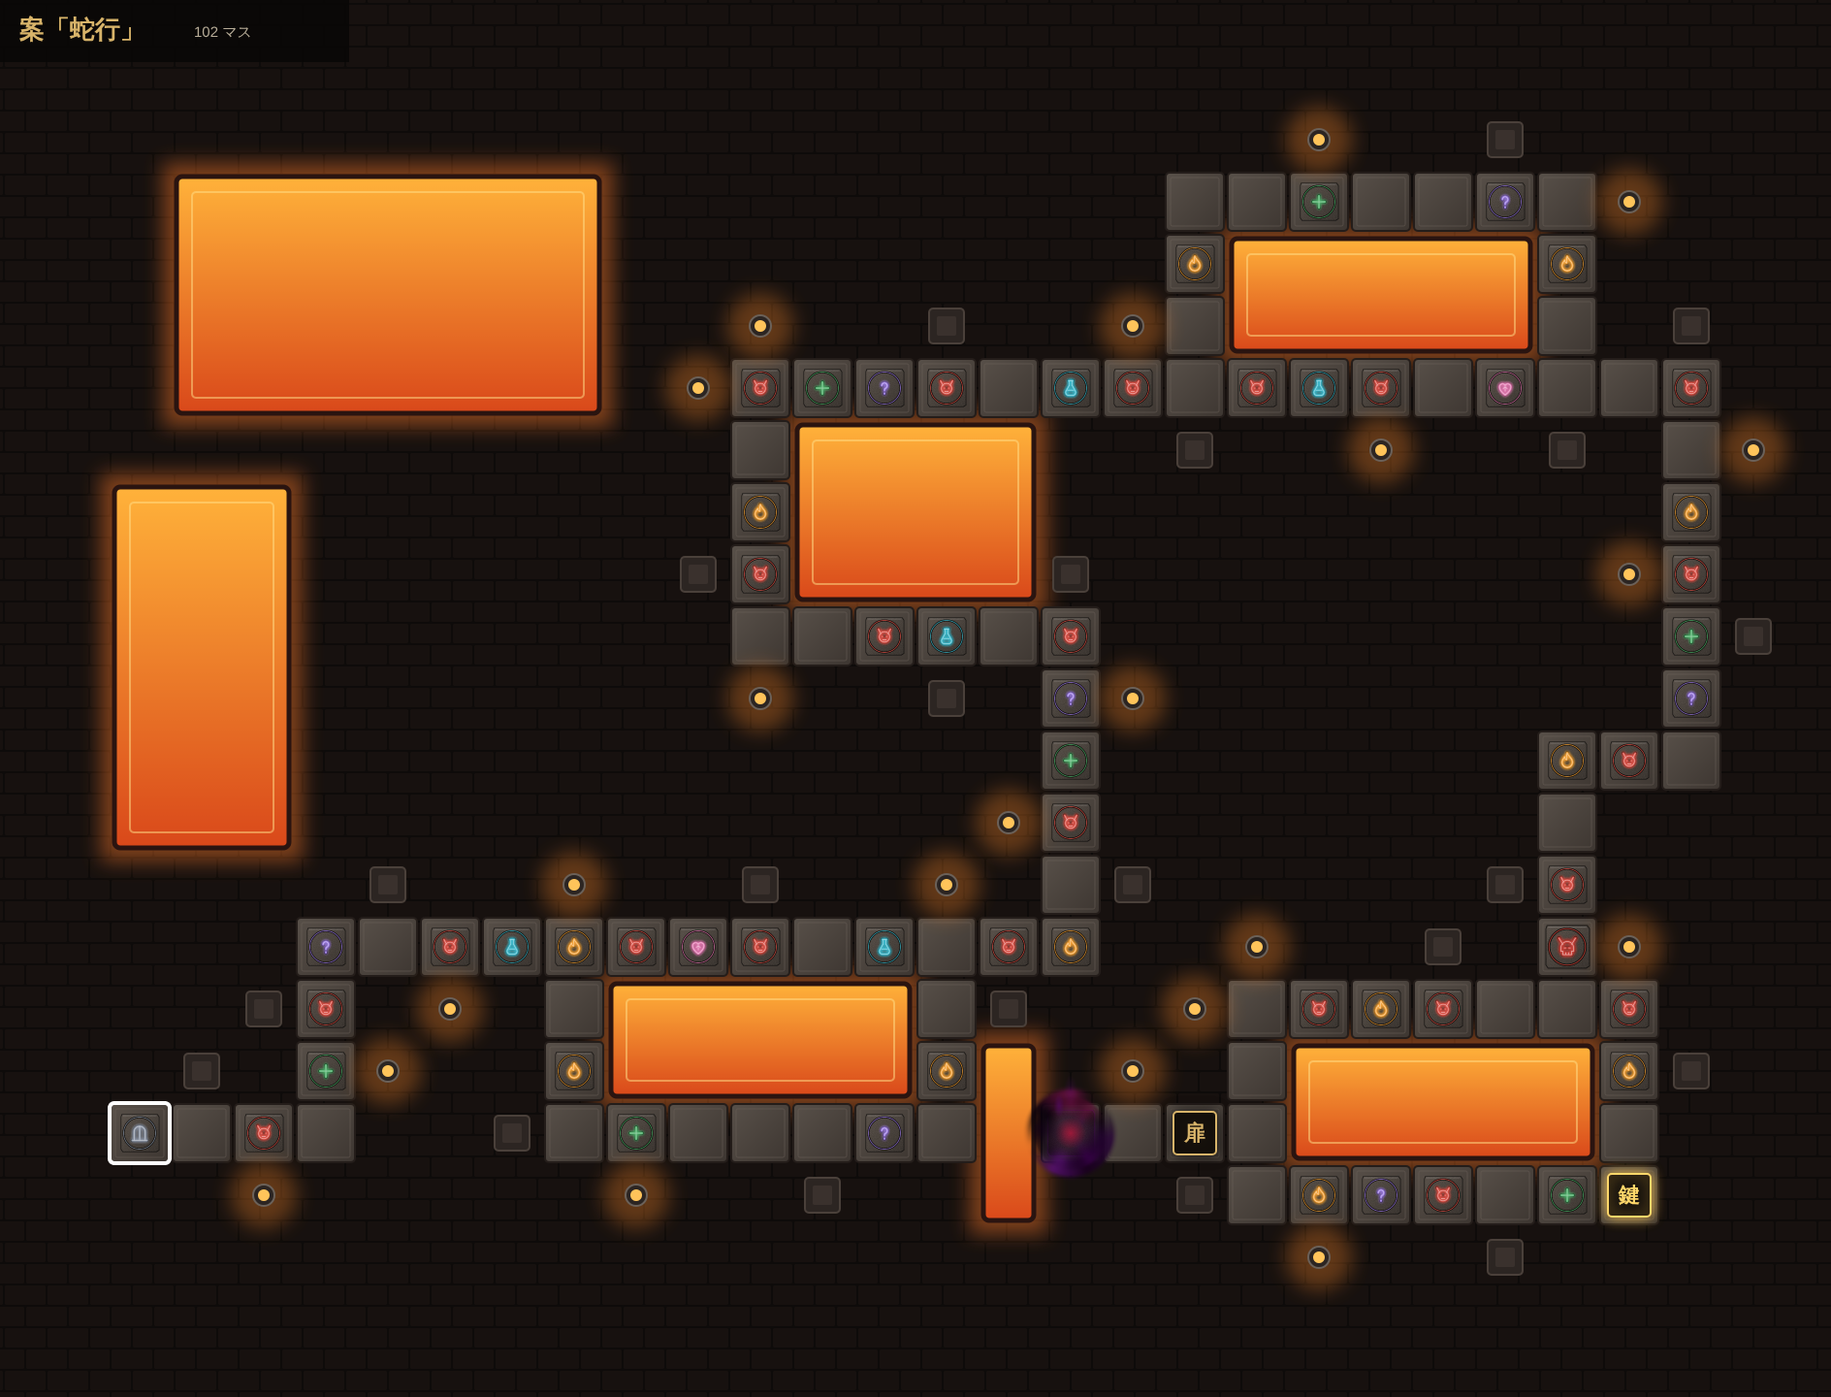
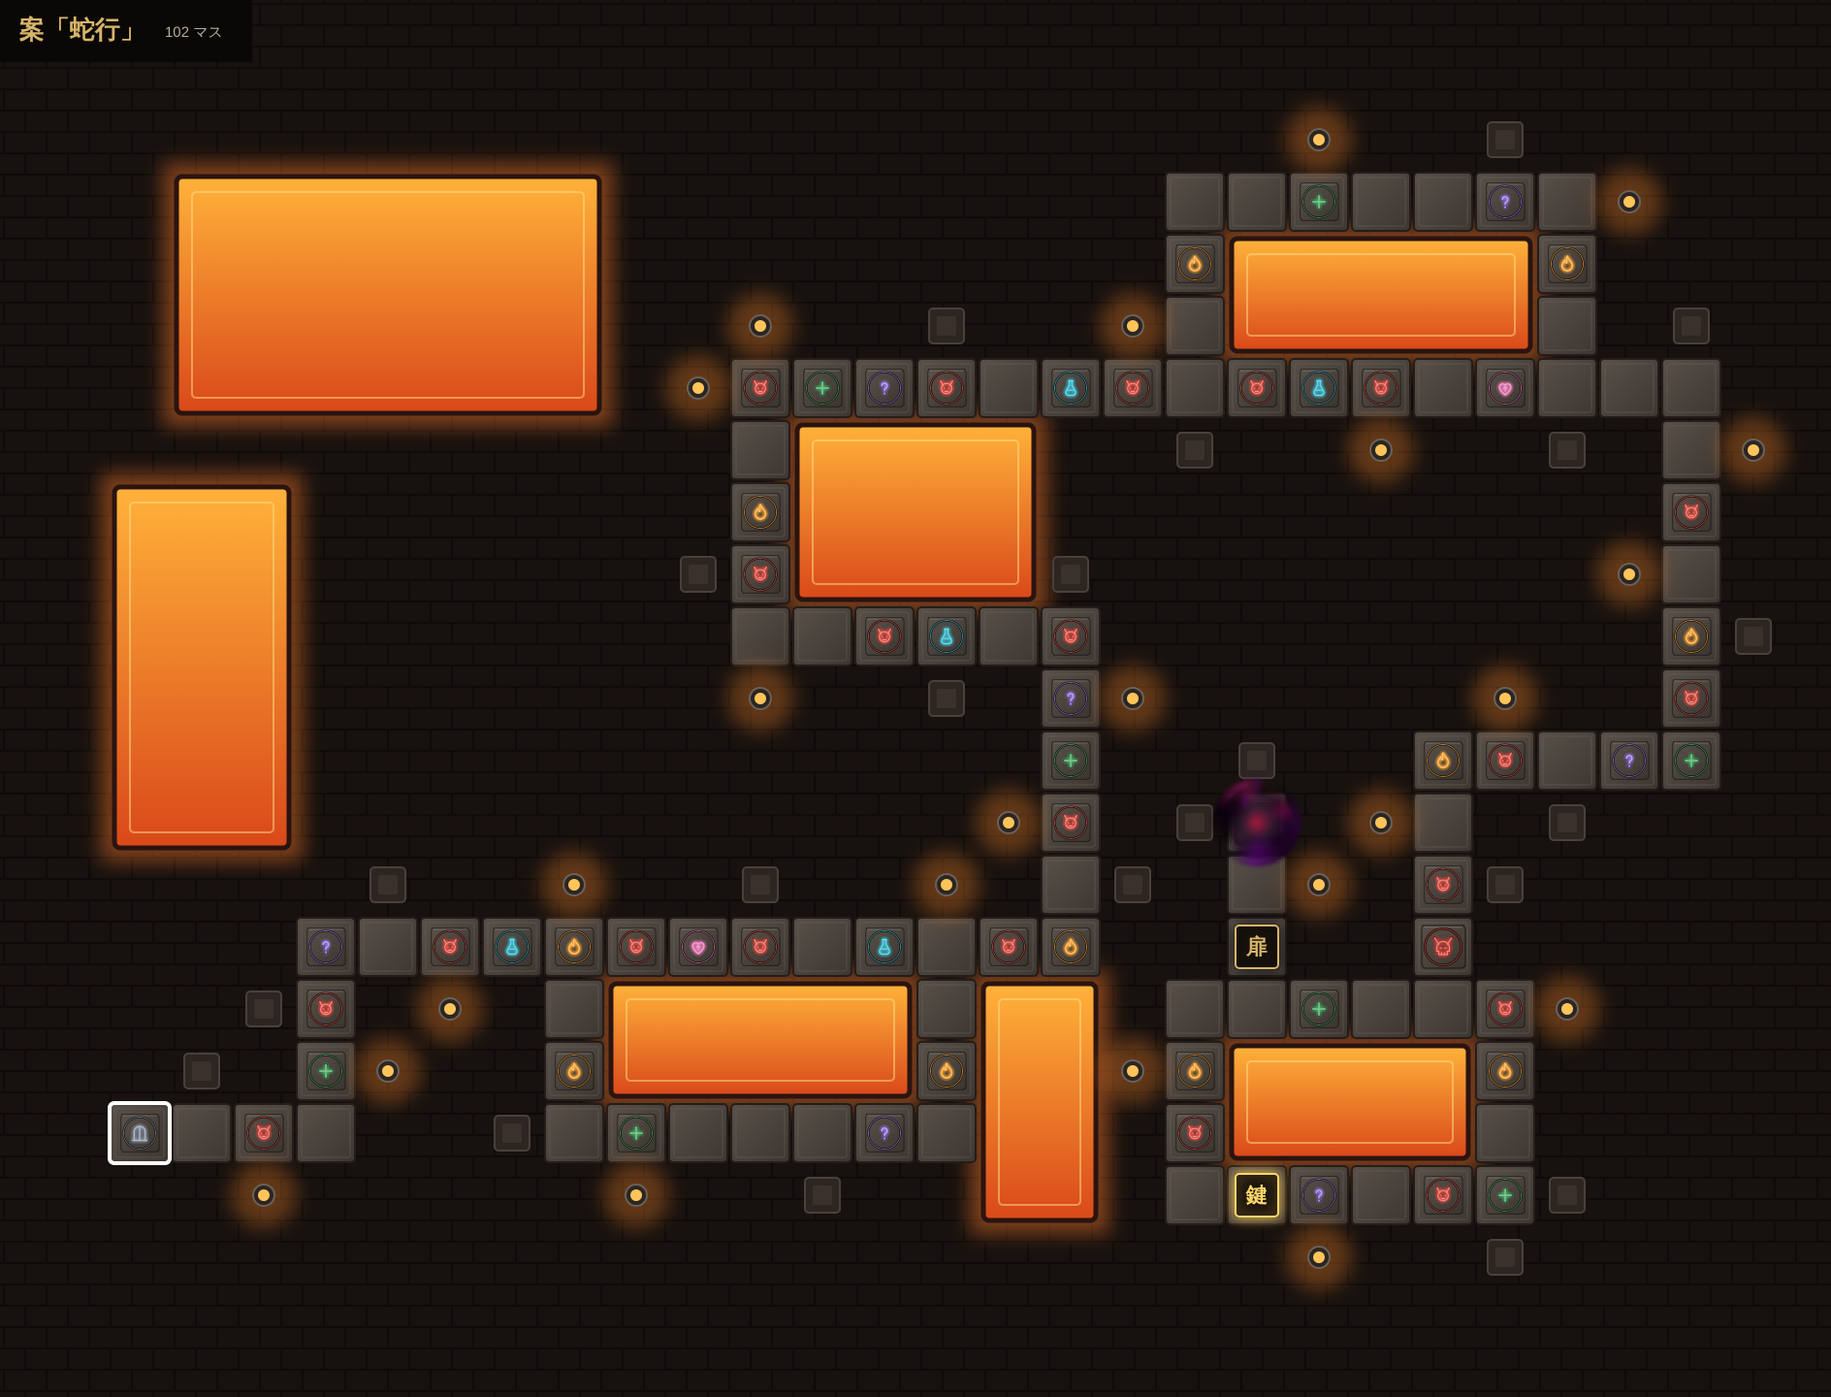
炎の神殿の輪を手直しする: 16マス、入口で左右を選ぶ（輪の中は向きを保つ）、鍵は入口から8マス、扉は上辺、回復を1つ足す
Claude-Session: https://claude.ai/code/session_012hkhuRjXJoxGWxPSr8xzWQ

diff --git a/src/game/dungeon.test.ts b/src/game/dungeon.test.ts
@@ -22,27 +22,31 @@ describe('盤面', () => {
     expect(board[0].kind).toBe('start');
     const r = run(); r.state.key = true;
     for (const pick of [0, 1]) {
-      let i = 0, n = 0;
+      let i = 0, p = -1, n = 0;
       // 輪の分かれ目では扉の側へ
-      while (r.exits(i).length && n++ < 200) { const o = r.exits(i), d = o.find(x => board[x].kind === 'door'); i = d ?? o[Math.min(pick, o.length - 1)]; }
+      while (r.exitsFrom(i, p).length && n++ < 200) { const o = r.exitsFrom(i, p), d = o.find(x => board[x].kind === 'door'); p = i; i = d ?? o[Math.min(pick, o.length - 1)]; }
       expect(i).toBe(r.bossIndex);
     }
   });
   it('中ボスの先に輪があり、鍵は輪の中に1本、扉は輪の出口に1つ', () => {
     const r = run(), key = board.filter(s => s.kind === 'key'), door = board.filter(s => s.kind === 'door');
     expect(key.length).toBe(1); expect(door.length).toBe(1);
-    // 扉の手前のマスから、扉を通らずに一周して戻れる
-    const junction = board.findIndex(s => s.next.includes(r.doorIndex));
-    let i = r.exits(junction)[0], n = 1;
-    const ring = [junction];
-    while (i !== junction && n < 100) { ring.push(i); i = r.exits(i)[0]; n++; }
-    expect(i).toBe(junction);
-    expect(ring.length).toBe(18);
-    expect(ring).toContain(key[0].id);
+    // 輪は16マス。入口（中ボスの次）から右回りに一周して戻れる。鍵は入口から左右どちら回りでも 8マス
+    const entry = r.midIndex + 1;
+    expect(r.exitsFrom(entry, r.midIndex).length).toBe(2);      // 入口で左右を選ぶ
+    let p = r.midIndex, i = entry, n = 0;
+    const ring: number[] = [];
+    do { ring.push(i); const o = r.exitsFrom(i, p).filter(x => board[x].kind !== 'door'); const nx = o.length > 1 ? Math.min(...o) : o[0]; p = i; i = nx; n++; } while (i !== entry && n < 100);
+    expect(ring.length).toBe(16);
+    expect(ring.indexOf(key[0].id)).toBe(8);
     expect(ring.every(x => x > r.midIndex)).toBe(true);
+    // 扉の前のマスは輪の上辺。入口との間は2マス（左回りで3マス目）
+    const junction = board.findIndex(s => s.next.includes(r.doorIndex));
+    expect(16 - ring.indexOf(junction)).toBe(3);
+    expect(board[r.doorIndex].y).toBeLessThan(board[junction].y);
   });
-  it('分かれ道が3つ、中ボスとボスが1つずつある', () => {
-    expect(board.filter(s => s.next.length > 1).length).toBe(3);
+  it('輪の外の分かれ道が2つ、中ボスとボスが1つずつある', () => {
+    expect(board.filter(s => s.next.length > 1 && !s.seg.startsWith('r')).length).toBe(2);
     expect(board.filter(s => s.kind === 'mid').length).toBe(1);
     expect(board.filter(s => s.kind === 'boss').length).toBe(1);
   });
@@ -142,20 +146,39 @@ describe('マスの効果', () => {
 describe('最深部の鍵と扉', () => {
   const junctionOf = (r: DungeonRun) => r.board.findIndex(s => s.next.includes(r.doorIndex));
   const keyIndex = (r: DungeonRun) => r.board.findIndex(s => s.kind === 'key');
+  /** マス pos に、prev から来た状態で置く（輪の中では、来た向きで進む向きが決まる） */
+  const place = (r: DungeonRun, pos: number, prev: number) => { r.state.pos = pos; r.state.prev = prev; };
+  it('輪の入口で左右を選べる。1周して入口に戻っても、向きは選び直せない', () => {
+    const r = run(); r.state.midDone = true;
+    const entry = r.midIndex + 1;
+    place(r, r.midIndex, -1); r.state.steps = 2;
+    expect(r.step()).toBe('moved');
+    expect(r.state.pos).toBe(entry);
+    expect(r.step()).toBe('choose');
+    expect(r.options().length).toBe(2);
+    place(r, entry + 15, entry + 14); r.state.steps = 2;       // 右回りで入口の手前まで来た
+    expect(r.step()).toBe('moved'); expect(r.state.pos).toBe(entry);
+    expect(r.options()).toEqual([entry + 1]);                  // そのまま右回り
+    place(r, entry + 1, entry + 2); r.state.steps = 2;         // 左回りで入口の手前まで来た
+    walk(r, 2);
+    expect(r.state.pos).toBe(entry + 15);                      // そのまま左回り
+  });
   it('鍵がないと、輪の分かれ目で扉へは進めず、輪をもう一周する（選ぶ画面も出ない）', () => {
     const r = run(); r.state.midDone = true;
     const j = junctionOf(r);
-    r.state.pos = j; r.state.steps = 3;
-    expect(r.options().length).toBe(1);
-    expect(r.step()).toBe('moved');
-    expect(r.board[r.state.pos].kind).not.toBe('door');
+    for (const from of [j - 1, j + 1]) {                      // どちら回りでも
+      place(r, j, from); r.state.steps = 3;
+      expect(r.options().length).toBe(1);
+      expect(r.step()).toBe('moved');
+      expect(r.board[r.state.pos].kind).not.toBe('door');
+    }
   });
   it('鍵は止まったときだけ手に入る。通り過ぎるだけでは得られない', () => {
     const r = run(); r.state.midDone = true;
-    r.state.pos = keyIndex(r) - 1; walk(r, 2);
+    place(r, keyIndex(r) - 1, keyIndex(r) - 2); walk(r, 2);
     expect(r.land()).toMatchObject({ kind: expect.not.stringMatching('key') });
     expect(r.state.key).toBeFalsy();
-    r.state.pos = keyIndex(r) - 1; walk(r, 1);
+    place(r, keyIndex(r) - 1, keyIndex(r) - 2); walk(r, 1);
     expect(r.land()).toEqual({ kind: 'key' });
     expect(r.state.key).toBe(true);
     expect(r.land()).toEqual({ kind: 'none' });      // 1本だけ。持っている間はもう出ない
@@ -163,7 +186,7 @@ describe('最深部の鍵と扉', () => {
   it('鍵を持っていれば、分かれ目で扉か輪かを選べる。扉では止まり、開けると開いたまま', () => {
     const r = run(); r.state.midDone = true; r.state.key = true;
     const j = junctionOf(r);
-    r.state.pos = j; r.state.steps = 4;
+    place(r, j, j - 1); r.state.steps = 4;
     expect(r.step()).toBe('choose');
     expect(r.options()).toContain(r.doorIndex);
     expect(r.step(r.doorIndex)).toBe('landed');       // 歩数が残っていても止まる

diff --git a/src/game/dungeon.ts b/src/game/dungeon.ts
@@ -12,7 +12,8 @@ export interface DungeonDef {
   reward: { accessory: string; gold: number };
   cell: number; size: [number, number];
   lava: [number, number, number, number][];                 // 溶岩の池 [x, y, w, h]（マス単位）
-  segments: { id: string; next: string[]; cells: [number, number, string][] }[];
+  // both: 両向きに進める道（輪）。中では向きを変えられない（来たマスには戻らない）
+  segments: { id: string; next: string[]; both?: boolean; cells: [number, number, string][] }[];
 }
 export interface Square { id: number; x: number; y: number; kind: SquareKind; next: number[]; seg: string }
 
@@ -28,6 +29,11 @@ export function buildBoard(def: DungeonDef): Square[] {
     });
   }
   for (const seg of def.segments) for (const n of seg.next) out[last[seg.id]].next.push(first[n]);
+  // 両向きの道: 逆向きのつながりも足す（道の中と、両向きの道どうしのつなぎ目）
+  for (const seg of def.segments) if (seg.both) {
+    for (let id = first[seg.id] + 1; id <= last[seg.id]; id++) out[id].next.push(id - 1);
+    for (const o of def.segments) if (o.both && o.next.includes(seg.id)) out[first[seg.id]].next.push(last[o.id]);
+  }
   return out;
 }
 
@@ -54,6 +60,7 @@ export interface RunState {
   cleared: boolean;
   key?: boolean;           // 最深部の鍵を持っている（負けると失い、鍵はもとのマスに戻る）
   doorOpen?: boolean;      // 最深部の扉を開けた（開いたまま。負けたらここからやり直す）
+  prev?: number | null;    // 直前にいたマス（輪の中で引き返さないため）
 }
 
 export class DungeonRun {
@@ -75,9 +82,11 @@ export class DungeonRun {
   /** 止まらずには通れないマス（中ボス、まだ開けていない扉、ボス） */
   isGate(i: number) { const k = this.board[i].kind, s = this.state; return k === 'boss' || (k === 'mid' && !s.midDone) || (k === 'door' && !s.doorOpen); }
   /** マス i から進めるマス。扉は鍵を持っているか、開いているときだけ */
-  exits(i: number): number[] {
+  exits(i: number): number[] { return this.exitsFrom(i, i === this.state.pos ? this.state.prev ?? -1 : -1); }
+  /** prev から来て、マス i にいるときに進めるマス（来たマスには戻らない） */
+  exitsFrom(i: number, prev: number): number[] {
     const s = this.state;
-    return this.board[i].next.filter(n => this.board[n].kind !== 'door' || s.key || s.doorOpen);
+    return this.board[i].next.filter(n => n !== prev && (this.board[n].kind !== 'door' || s.key || s.doorOpen));
   }
   /** 次の関所までに数えるマスの種類（輪の中で鍵がないときは、鍵のマスまで） */
   private goal(i: number) {
@@ -90,13 +99,15 @@ export class DungeonRun {
   get goalName() { const s = this.state; return !s.midDone ? '中ボス' : this.doorIndex >= 0 && !s.doorOpen ? (s.key ? '扉' : '鍵') : 'ボス'; }
   /** 次の目標（中ボス → 鍵 → 扉 → ボス）までの最短のマス数 */
   distanceToGate(): number {
-    const seen = new Map<number, number>([[this.state.pos, 0]]), q = [this.state.pos];
+    // 輪の中では向きで行き先が変わるので、（いるマス, 来たマス）の組で数える
+    const seen = new Set<string>(), q: [number, number, number][] = [[this.state.pos, this.state.prev ?? -1, 0]];
     while (q.length) {
-      const i = q.shift()!, d = seen.get(i)!;
-      for (const n of this.exits(i)) {
-        if (seen.has(n)) continue;
+      const [i, p, d] = q.shift()!;
+      for (const n of this.exitsFrom(i, p)) {
         if (this.goal(n)) return d + 1;
-        seen.set(n, d + 1); q.push(n);
+        const k = `${n},${i}`;
+        if (seen.has(k)) continue;
+        seen.add(k); q.push([n, i, d + 1]);
       }
     }
     return 0;
@@ -118,6 +129,7 @@ export class DungeonRun {
     const s = this.state, next = this.exits(s.pos);
     if (s.steps <= 0 || next.length === 0) { s.steps = 0; return 'landed'; }
     if (next.length > 1 && (choice === undefined || !next.includes(choice))) return 'choose';
+    s.prev = s.pos;
     s.pos = next.length > 1 ? choice! : next[0];
     s.steps--;
     if (this.isGate(s.pos)) s.steps = 0;     // 関所は必ず止まる
@@ -168,7 +180,7 @@ export class DungeonRun {
   battleLost() {
     const s = this.state;
     s.pos = s.doorOpen ? this.doorIndex : s.midDone ? this.midIndex : 0;
-    s.key = false;
+    s.key = false; s.prev = null;
     s.hp = this.baseMaxHp; s.maxBonus = 0;
     s.used = this.slots.map(() => false);
     s.steps = 0; s.pending = null;

diff --git a/src/scenes/GameScene.ts b/src/scenes/GameScene.ts
@@ -197,17 +197,19 @@ export class GameScene extends Phaser.Scene {
   }
   sqPos(i: number) { const r = this.run!, q = r.board[i], G = r.def.cell; return { x: q.x * G + G / 2, y: q.y * G + G / 2 }; }
   private bfs(key: string, from: number, depth: number): Set<number> {
-    const st0 = this.run!.state, k = `${key}:${from}:${st0.midDone}:${!!st0.key}:${!!st0.doorOpen}`, hit = this.setCache.get(k);
+    const st0 = this.run!.state, k = `${key}:${from}:${st0.prev}:${st0.midDone}:${!!st0.key}:${!!st0.doorOpen}`, hit = this.setCache.get(k);
     if (hit) return hit;
-    const run = this.run!, out = new Set<number>(), q: [number, number][] = [[from, 0]];
+    const run = this.run!, out = new Set<number>(), q: [number, number, number][] = [[from, from === st0.pos ? st0.prev ?? -1 : -1, 0]], seen = new Set<string>();
     while (q.length) {
-      const [i, d] = q.shift()!;
+      const [i, p, d] = q.shift()!;
       if (d >= depth) continue;
-      // 先にあるマスは、扉の先も含める（鍵がなくても薄くしない）。届くマスは、通れる道だけ
-      for (const n of depth < 99 ? run.exits(i) : run.board[i].next) {
-        if (out.has(n)) continue;
+      // 先にあるマスは、扉の先も含める（鍵がなくても薄くしない）。届くマスは、通れる道だけ（輪の中は向きを保つ）
+      for (const n of depth < 99 ? run.exitsFrom(i, p) : run.board[i].next) {
         out.add(n);
-        if (!(run.isGate(n) && depth < 99)) q.push([n, d + 1]);     // 関所では必ず止まるので、その先には届かない
+        const k = `${n},${i}`;
+        if (seen.has(k)) continue;
+        seen.add(k);
+        if (!(run.isGate(n) && depth < 99)) q.push([n, i, d + 1]);     // 関所では必ず止まるので、その先には届かない
       }
     }
     if (this.setCache.size > 200) this.setCache.clear();
@@ -248,11 +250,11 @@ export class GameScene extends Phaser.Scene {
   /** 分かれ道で first を選んだとき、いまの出目で止まるマス（先にまた分かれ道があれば、そこまで） */
   stopFrom(first: number): number {
     const run = this.run!;
-    let pos = first;
+    let pos = first, prev = run.state.pos;
     for (let left = run.state.steps - 1; left > 0; left--) {
-      const next = run.exits(pos);
+      const next = run.exitsFrom(pos, prev);
       if (run.isGate(pos) || next.length !== 1) break;
-      pos = next[0];
+      prev = pos; pos = next[0];
     }
     return pos;
   }

diff --git a/e2e/flow.e2e.ts b/e2e/flow.e2e.ts
@@ -353,7 +353,7 @@ describe('ダンジョン', () => {
   it('鍵を持って輪の分かれ目に来ると、扉を選べる。扉で止まって開く', async () => {
     g = await open();
     await enter();
-    await scene(g.page, s => { const r = s.run; r.state.midDone = true; r.state.key = true; r.state.pos = r.board.findIndex((q: { next: number[] }) => q.next.includes(r.doorIndex)); s.toBoard(); });
+    await scene(g.page, s => { const r = s.run; r.state.midDone = true; r.state.key = true; r.state.pos = r.board.findIndex((q: { next: number[] }) => q.next.includes(r.doorIndex)); r.state.prev = r.state.pos - 1; s.toBoard(); });
     await fix(0.99);     // 6の目
     await roll();
     await mode('choose');

diff --git a/docs/design.md b/docs/design.md
@@ -218,7 +218,7 @@
   - イベント（火柱）: 3 → 7 ダメージ。
   - 盤面を長く（約100マス）。分かれ道の長い道は、回復1・火柱2・ランダム1・敵なし（安全だが遅く、削られる）。短い道は、敵2・アイテム1・最大HPアップ1（危ないが得）。
 - 盤面の形: 段をまっすぐ並べた形（`docs/samples/style-S5-board-h.png`）は「単調で面白くない」。作り直す。
-- 盤面の形は「蛇行」に決定（2026-11-19、3案の輪・蛇行・島から）。輪の1周は 18マス。全体図 `docs/samples/style-S6-board-spiral.png`、作り方 `scripts/boards/spiral.mjs`（全 102マス）。
+- 盤面の形は「蛇行」に決定（2026-11-19、3案の輪・蛇行・島から）。輪の1周は 18マス → 手直しで 16マス（下の「直前の作業」）。全体図 `docs/samples/style-S6-board-spiral.png`、作り方 `scripts/boards/spiral.mjs`（全 102マス）。
 - 最深部の鍵と最深部の扉:
   - 鍵: 鍵のマスに止まるともらえる。通り過ぎただけでは、もらえない。1本しか存在しない。中ボスより後にある。
   - 扉: 通るには鍵が要る。扉の先にボスがいる。一度開けた扉は、開いたままにする。
@@ -260,6 +260,7 @@
 - 水の神殿・風の神殿・魔王城は「準備中」の表示だけ。
 
 ### 直前の作業
+- 2026-11-19: 輪を手直しした（持ち主の指示）。16マス（敵3、火柱2、回復2、ランダム1、鍵1、なし7）。中ボスの真下が入口で、左右を選ぶ。輪の中は両向きに進める道で、来たマスには戻らない（1周して入口に戻っても向きは選び直せない）。鍵は入口から左右どちらでも 8マス。扉は輪の上辺（入口との間は2マス）。見本 `docs/samples/style-S6-board-spiral-ring.png`。自動プレイヤー: 上級 約10分（一度も負けずに踏破 16〜31%）、普通 約12〜14分（1〜4%）。前の輪より少し易しくなった（回復が1つ増え、敵と火柱が1つずつ減ったため）。
 - 2026-11-19: 戦闘の曲を、開始前の待機（START を押す前）から流すようにした（持ち主の指示）。待機中にメニューを開いても続けて流れ、戦闘ごとに頭から。
 - 2026-11-19: 音量の設定を足した（メニューと盤面のメニューの「設定」。BGM と効果音を 0〜10 で。初期値 BGM 7・効果音 10。セーブに保存し、セーブリセットでも残す）。見た目は C 柱のまま、見本は出さずに作った（`docs/samples/settings-now.png`）。戦闘中のポーズからは開けない。
 - 2026-11-19: 炎の神殿を作り直した（盤面「蛇行」102マス、輪の1周18マス、最深部の鍵と扉、案H の強さ、火柱 7）。BGM を持ち主の曲に替えた。`npm run check` が通った（単体68、通し28）。自動プレイヤーで: 上級 約9〜10分（一度も負けずに踏破 6〜18%）、普通 約11〜14分（負け 1.6〜2.4回）。
@@ -290,7 +291,6 @@
 - 次の攻撃は2段（技名を1段上）。技名は大きさ固定（24、全角8文字まで）、左詰め。枠は D3 の幅のまま。
 
 ### 返事待ち（持ち主に聞いている）
-- 炎の神殿の輪の手直し（2026-11-19 の指示。見本 `docs/samples/style-S6-board-spiral2.png`、作り方 `scripts/boards/spiral2.mjs`）: 輪 16マス、入口で左右を選ぶ、鍵は入口から 8マス、扉は輪の上辺。持ち主の指示で輪を左に1マス寄せ、入口と扉の前のマスの間を2マスにした。見本だけで、data とルールはまだ変えていない。輪の中を両向きに進めるには、ルールの変更（進む向きを覚える）が要る。1周して入口に戻ったときに向きを選び直せるかを聞いている。
 
 ### 見た目
 - 見た目と動きの仕様、見本の経緯、未確定の点は `docs/look.md` にまとめた。ここには書かない。
